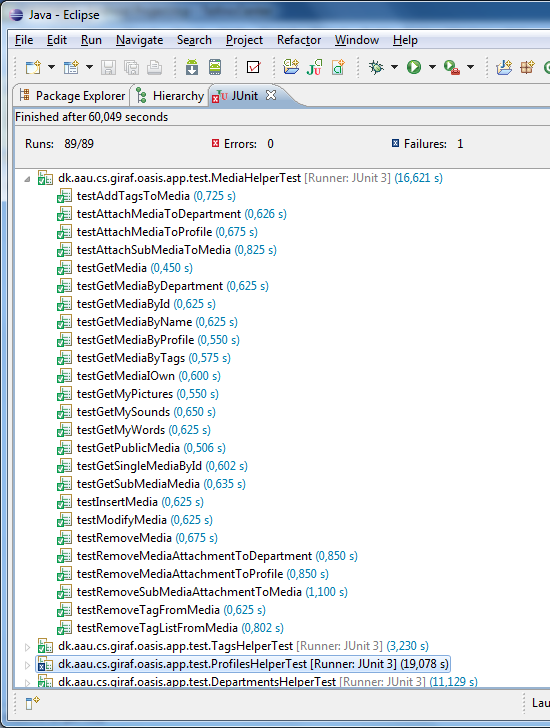
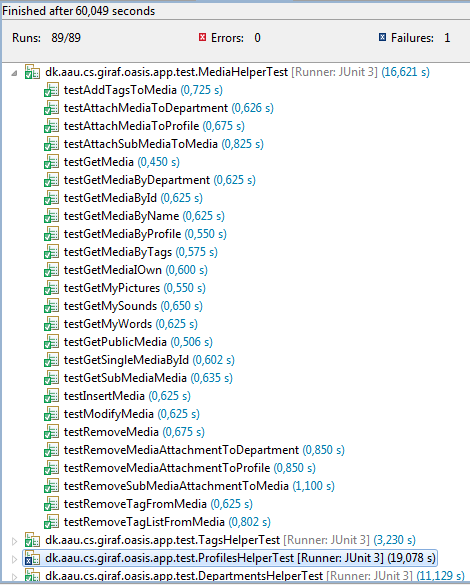
Developer Name: Dan Møller Synopsis: Shite

diff --git a/Reports/Group_4/Tex/Appendix/unitTestResults.tex b/Reports/Group_4/Tex/Appendix/unitTestResults.tex
@@ -1,0 +1,31 @@
+\section{Unit Test Results}
+\label{app:unitTestResults}
+In this section the results for the remaing unit tests can be found.
+
+\begin{figure}[htbp]
+	\centering
+		\includegraphics[width=\textwidth]{Images/unit_testing/app_helper_tests.PNG}
+	\caption{The result from the \texttt{appsHelper} tests.}
+	\label{fig:app_helper_tests}
+\end{figure}
+
+\begin{figure}[htbp]
+	\centering
+		\includegraphics[width=\textwidth]{Images/unit_testing/department_helper_tests.PNG}
+	\caption{The result from the \texttt{departmentHelper} tests.}
+	\label{fig:department_helper_tests}
+\end{figure}
+
+\begin{figure}[htbp]
+	\centering
+		\includegraphics[width=\textwidth]{Images/unit_testing/media_helper_tests.PNG}
+	\caption{The result from the \texttt{mediaHelper} tests.}
+	\label{fig:media_helper_tests}
+\end{figure}
+
+\begin{figure}[htbp]
+	\centering
+		\includegraphics[width=\textwidth]{Images/unit_testing/tag_helper_tests.PNG}
+	\caption{The result from the \texttt{tagsHelper} tests.}
+	\label{fig:tag_helper_tests}
+\end{figure}

diff --git a/Reports/Group_4/Tex/Appendix/timerreq.tex b/Reports/Group_4/Tex/Appendix/timerreq.tex
@@ -1,4 +1,4 @@
-\section{Requirements from Wombat}
+\chapter{Requirements from Wombat}
 \label{sec:timerreq}
 I beh\o{}ver ikke smide det ind i objekter, da vi har vi allerede lavet objekter til vores data. 
 Hvis vi blot kan f\aa{} dataen i en eller anden form for array, er det helt fint.
